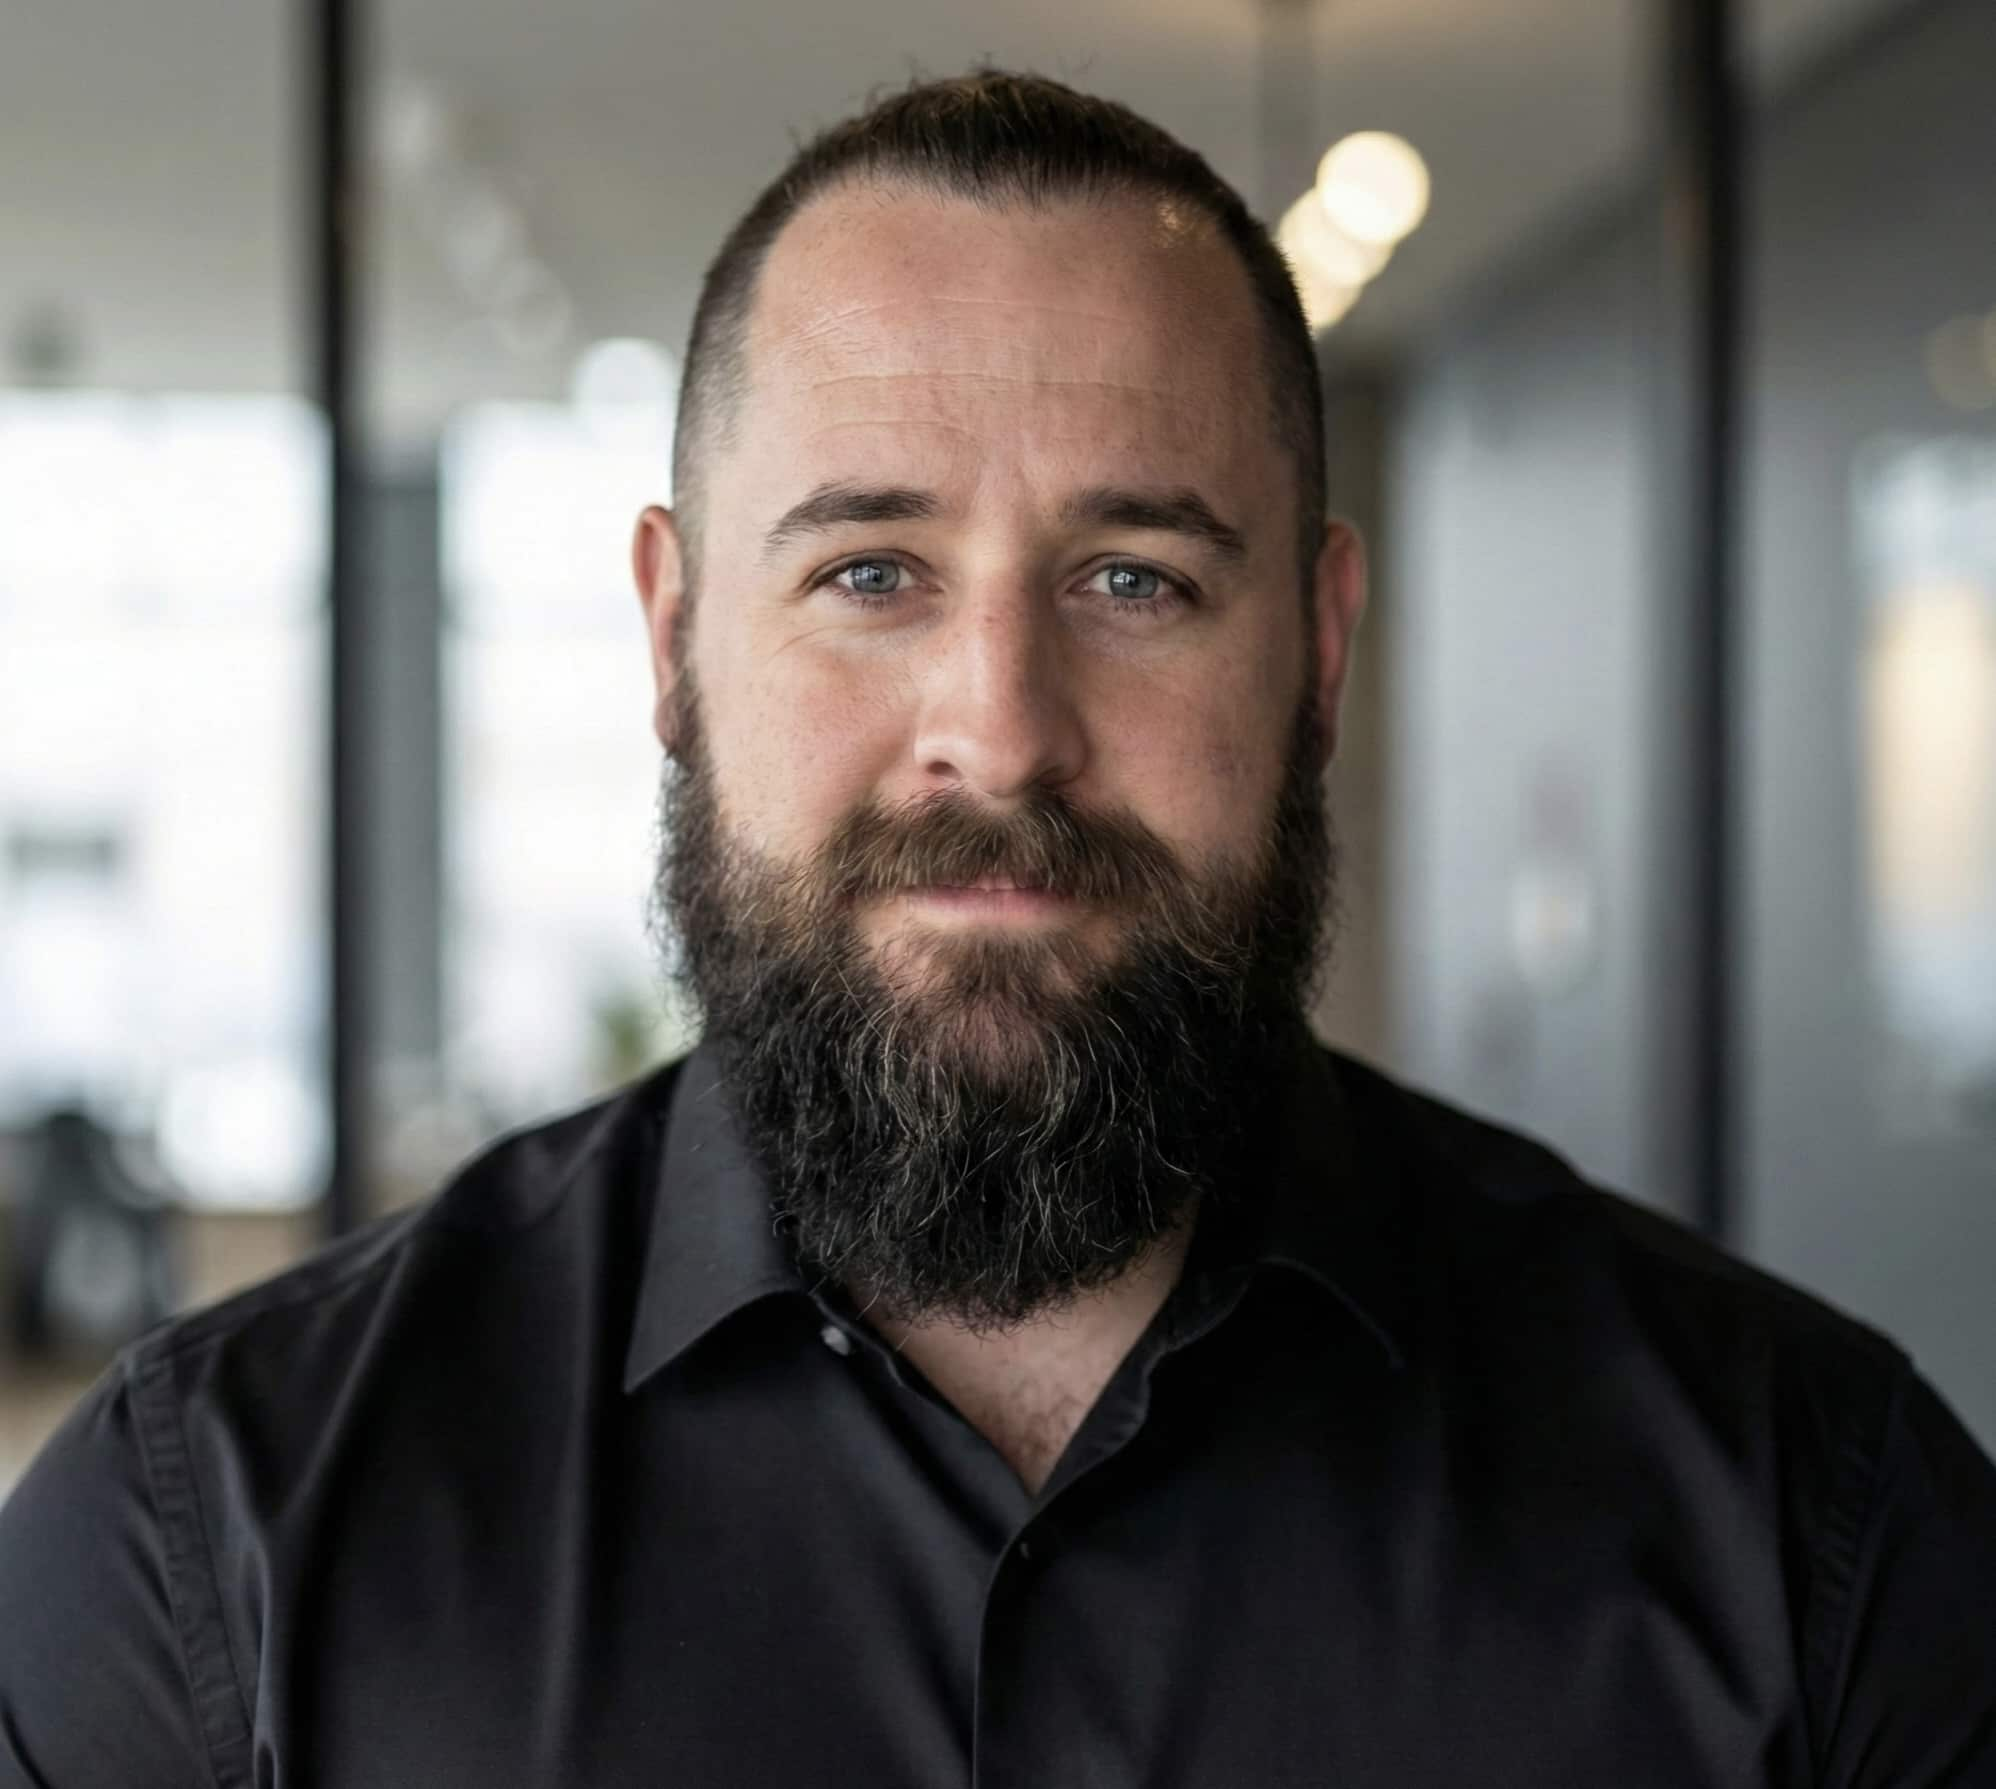
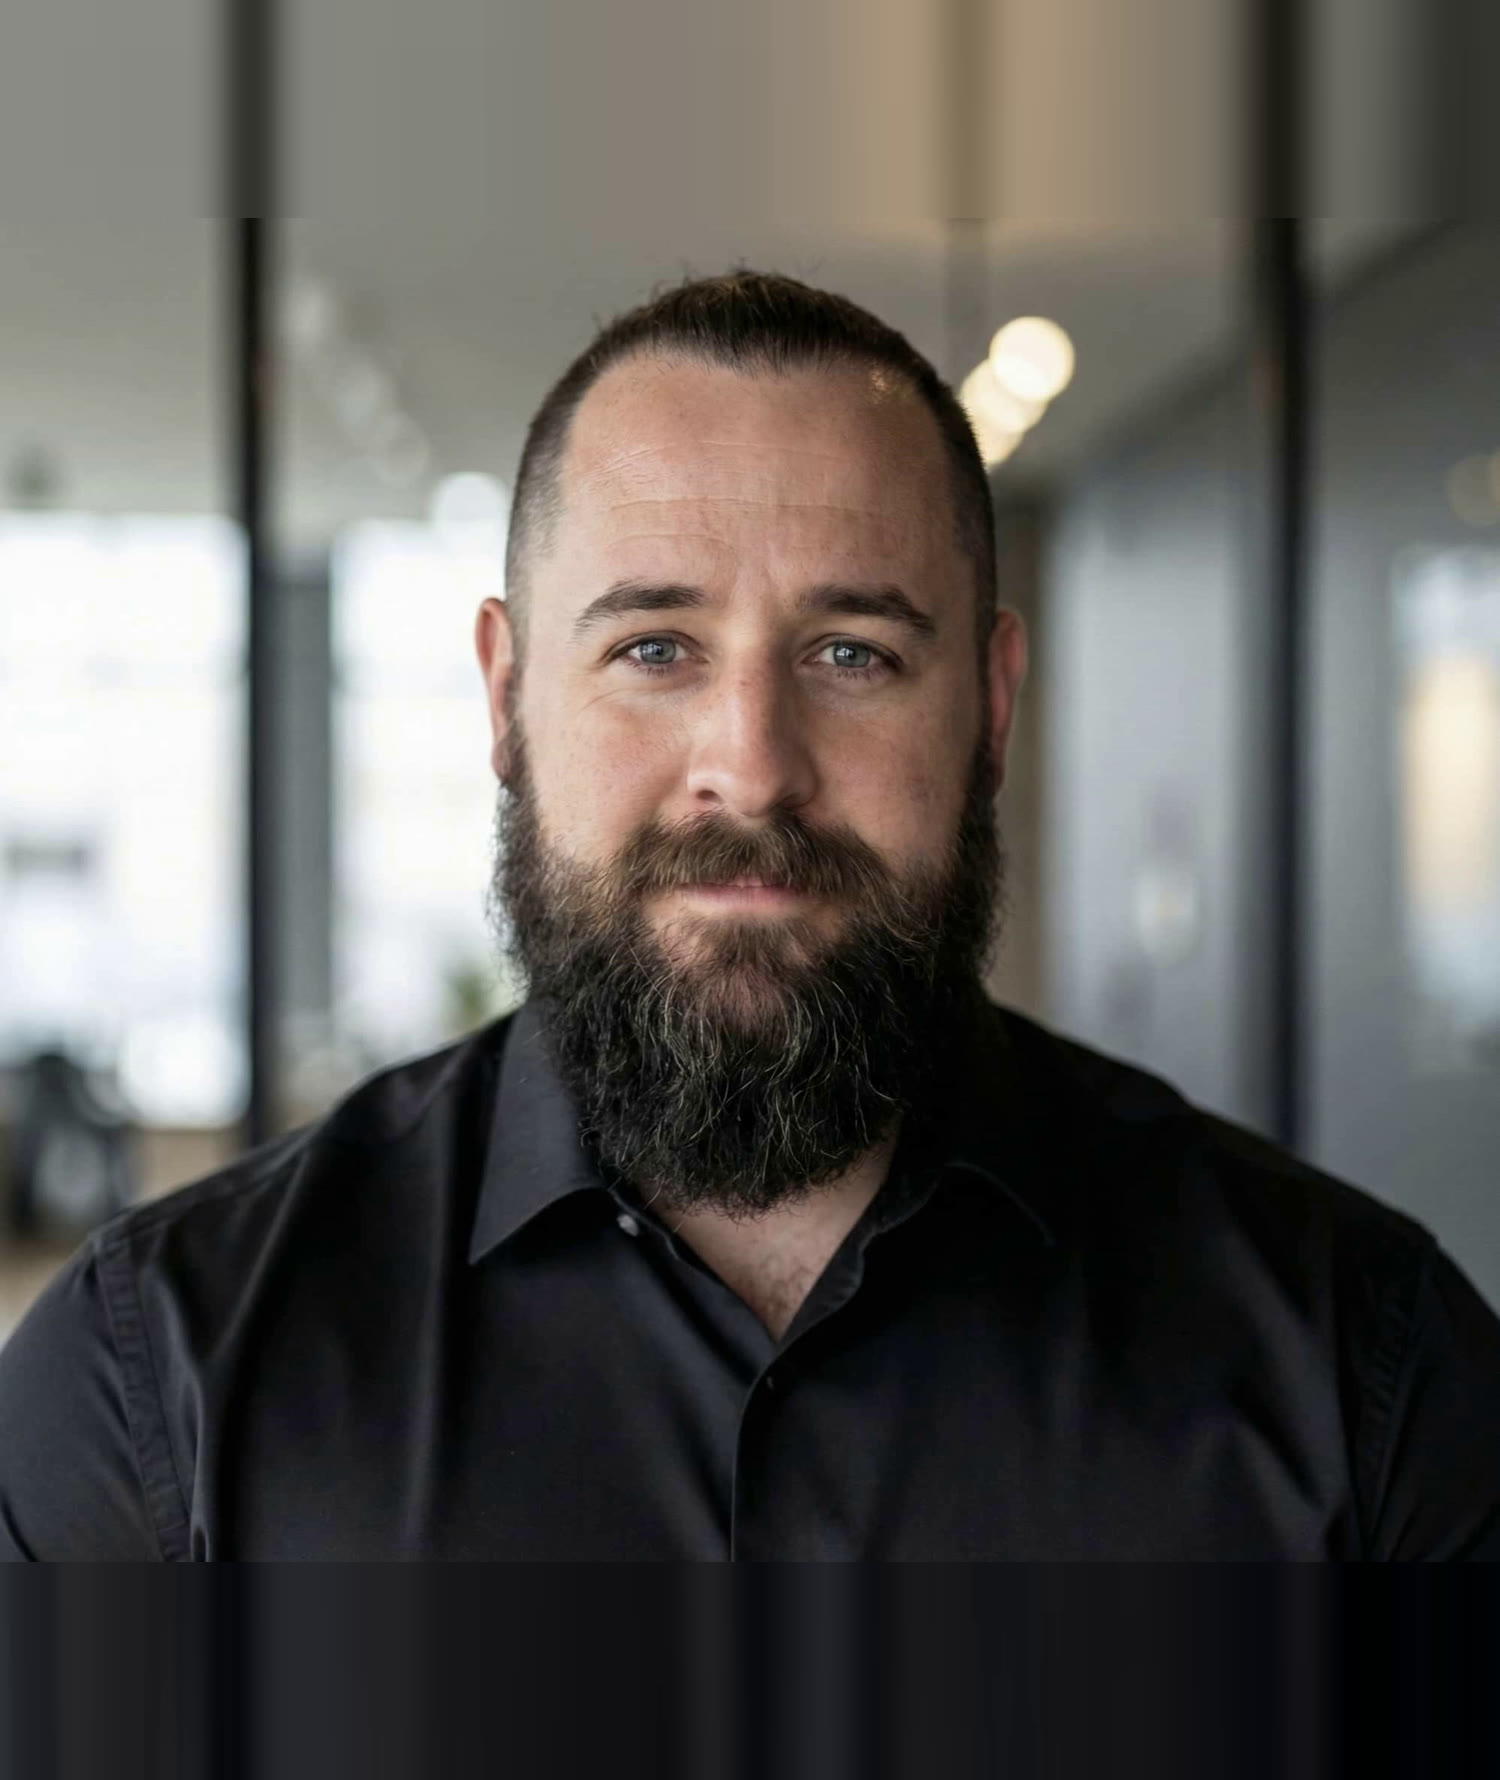
Match Scott's headshot framing to Chris, and stop the accordion scrolling
The two bio photos were shot at different distances: measured against their
own frames, Chris's head fills 47% and Scott's 63%. In a shared crop that
made Scott's head look a third larger than Chris's.

object-fit: cover can only ever zoom IN, so the fix had to be in the asset.
Scott's canvas is extended top and bottom by 218px of edge-clamped, blurred
continuation of his own background, which lands his head at 47.3% against
Chris's 47.3%. Two earlier attempts are worth not repeating: a blurred
cover-scaled backdrop left a hard seam, and a mirrored extension produced a
recognisable upside-down face above his head.

Width and height attributes updated on both pages that use the asset, so the
browser still reserves the right box and layout shift stays at zero.

Separately: the FAQ accordion no longer scrolls the opened panel to centre.
The panels are short, so recentring moved the very thing the reader had just
aimed at, which reads as the page jumping rather than as help. Opening now
expands in place. The one-open-at-a-time behaviour stays.

diff --git a/public/assets/site.js b/public/assets/site.js
@@ -78,18 +78,21 @@
     }, { passive: true });
   }
 
-  // FAQ accordion: one open at a time, then smooth-scroll the opened panel to center.
+  // FAQ accordion: one open at a time. Deliberately NO scroll-into-view.
+  // These panels are short, so recentring the page on open moved the thing
+  // the reader had just aimed at, which reads as the page jumping rather
+  // than as help. The item stays where it is and simply expands.
+  //
+  // Note the browser handles closing the sibling itself for same-name
+  // details, but only in browsers that support the exclusive-accordion
+  // behaviour; the loop below keeps older ones consistent.
   Array.prototype.forEach.call(document.querySelectorAll('details'), function (d) {
     d.addEventListener('toggle', function () {
       if (!d.open) return;
       var group = d.getAttribute('name');
-      if (group) {
-        Array.prototype.forEach.call(document.querySelectorAll('details[name="' + group + '"]'), function (other) {
-          if (other !== d) { other.open = false; }
-        });
-      }
-      window.requestAnimationFrame(function () {
-        d.scrollIntoView({ behavior: 'smooth', block: 'center' });
+      if (!group) return;
+      Array.prototype.forEach.call(document.querySelectorAll('details[name="' + group + '"]'), function (other) {
+        if (other !== d) { other.open = false; }
       });
     });
   });
